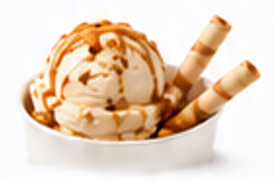
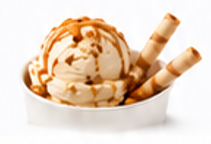
Adiciona seção de promoções

diff --git a/index.html b/index.html
@@ -17,7 +17,7 @@
             <a href="#p1">Home</a>
             <a href="#p2">Sabores</a>
             <a href="#p3">Promoções</a>
-            <a href="#p4">Contato</a>
+            <a href="#p4">Sobre</a>
             <a href="#p5">Galeria</a>
         </nav>
     </header>
@@ -46,37 +46,42 @@
                         <p class="nomesorvete">Chocolate</p>
                         <p class="descricaosorvete">O clássico que nunca</p>
                         <p class="descricaosorvete2">sai de moda</p>
-                        <a class="vermais" href="#">Ver mais</a>
+                        <a class="vermais" href="#p3">Ver mais</a>
                 </div>
                 <div class="tiposorve">
                         <img id="imgchoco" src= "imagens/sorvetemoran.png" alt="sorvetechocolate">
                         <p class="nomesorvete">Morango</p>
                         <p class="descricaosorvete">Feito com morangos</p>
                         <p class="descricaosorvete2">frescos e deliciosos.</p>
-                        <a class="vermais" href="#">Ver mais</a>
+                        <a class="vermais" href="#p3">Ver mais</a>
                 </div>
                 <div class="tiposorve">
                         <img id="imgchoco" src= "imagens/sorvetebauni.png" alt="sorvetechocolate">
                         <p class="nomesorvete">Baunilha</p>
                         <p class="descricaosorvete">Cremoso e suave com</p>
                         <p class="descricaosorvete2">toque especial.</p>
-                        <a class="vermais" href="#">Ver mais</a>
+                        <a class="vermais" href="#p3">Ver mais</a>
                 </div>
                 <div class="tiposorve">
                         <img id="imgchoco" src= "imagens/sorveteoreo.png" alt="sorvetechocolate">
                         <p class="nomesorvete">Cookies &amp; Cream</p>
                         <p class="descricaosorvete">Irresistível combinação</p>
                         <p class="descricaosorvete2">de cookies e creme.</p>
-                        <a class="vermais" href="#">Ver mais</a>
+                        <a class="vermais" href="#p3">Ver mais</a>
                 </div>
             </div>
         </section>
 
         <section id="p3">
-            <h2>Produtos</h2>
-            <p>
-                Lorem ipsum dolor sit amet, consectetur adipisicing elit. Et explicabo id sapiente architecto deleniti assumenda repudiandae dignissimos harum repellendus voluptates at, fuga ut modi recusandae eveniet unde consequuntur blanditiis maxime? Lorem ipsum dolor, sit amet consectetur adipisicing elit. Corporis ut nisi tenetur suscipit nam ipsum, earum dolore dicta quibusdam officiis id debitis repellat quis commodi numquam eius tempore voluptatem explicabo! Animi consectetur eum laborum inventore suscipit provident, voluptates, alias excepturi neque praesentium velit id hic nulla. Iure et temporibus odio veniam laborum quos quisquam autem iste labore, expedita illo! Fugiat! Itaque culpa, necessitatibus qui praesentium labore excepturi ipsum cumque unde possimus optio quaerat numquam libero. Provident, amet aut error quo libero nisi non corporis ex recusandae aspernatur dolorem dignissimos pariatur!
-            </p>
+            <div id="promocoes">────<span id="promocoes2">PROMOÇÕES DA SEMANA</span>────</div>
+            <div id="promocao">  
+                <div id="casquinha">
+                    <p id="emdobro">Casquinha em dobro!</p>
+                    <p id="descricaocasquinha">Na compra de qualquer casquinha,<br>você ganha outra do mesmo sabor.</p>
+                    <a id="aproveite" href="#p4">Aproveite agora</a>
+                </div>
+                <img id="imgpromocao" src="imagens/promocao.png" alt="Promoção">
+            </div>
         </section>
 
         <section id="p4">

diff --git a/src/css/style.css b/src/css/style.css
@@ -78,8 +78,7 @@ header a{
 }
 
 header a:hover{
-    font-size: 35px;
-    transform: scale(1.15);
+    transform: scale(1.55);
 }
 
 a{
@@ -90,14 +89,16 @@ a{
 }
 
 section{
-    scroll-margin-top: 110px;
     background-color: white;
 }
 
+#p1{
+    scroll-margin-top: 100px;
+}
 #sorveteimg{
-    width: 800px;
-    height: 550px;
-    padding: 20px 60px 0px 60px;
+    width: 850px;
+    height: 610px;
+    padding: 33px 60px 0px 60px;
 }
 
 #sabor{
@@ -138,12 +139,18 @@ section{
     padding: 15px 20px;
     border-radius: 10px;
     width: fit-content;
+    transition: all 0.5s ease;
+}
+#saborlink:hover{
+    transition: all 0.5s ease;
+    transform: scale(1.15);
 }
 
 #dia{
     color: rgb(255, 64, 128);
 }
 #p2{
+    scroll-margin-top: 95px;
     display: flex;
     flex-direction: column;
     justify-content: center;
@@ -157,7 +164,7 @@ section{
     padding: 30px 15px;
 }
 #nossos2{
-    letter-spacing: 1.2px;
+    letter-spacing: 0.6px;
     padding: 0px 15px;
 }
 .sabores{
@@ -198,7 +205,6 @@ section{
     font-size: 16px;
     color: #666666;
     line-height: 1.5;
-    margin-bottom: 10px;
     margin-bottom: 20px;
 }
 
@@ -215,4 +221,63 @@ section{
     background-color: #2563EB;
     color: white;
     transition: all 0.5s ease;
+}
+#p3{
+    scroll-margin-top: 95px;
+    display: flex;
+    flex-direction: column;
+    justify-content: center;
+    align-items: center;
+    background-color: #FFF0F6;
+    font-family: 'Poppins', sans-serif;
+}
+#promocoes{
+    color: #FF4080;
+    font-size: 18px;
+    font-weight: 700;
+    padding: 30px 15px;
+}
+#promocoes2{
+    letter-spacing: 0.6px;
+    padding: 0px 15px;
+}
+#promocao{
+    display: flex;
+    flex-direction: row;
+    justify-content: center;
+    background-color: #FEF8F9;
+    box-shadow: 0px 4px 15px rgba(0, 0, 0, 0.1);
+    border-radius: 15px;
+    overflow: hidden;
+    padding: 0px 0px 0px 55px;
+    margin-bottom: 30px;
+}
+#casquinha{
+    display: flex;
+    flex-direction: column;
+    align-items: start;
+    padding: 10px 0px 0px 0px;
+}
+#emdobro{
+    color: #FF4F93;
+    font-weight: 700;
+    font-size: 30px;
+    margin-bottom: 2px;
+}
+#descricaocasquinha{
+    color: #444444;
+    font-size: 16px;
+    line-height: 1.5;
+    margin-bottom: 25px;
+}
+#aproveite{
+    color: #FFFFFF;
+    background-color: #FF4F93;
+    padding: 10px 20px;
+    border-radius: 8px;
+
+}
+#imgpromocao{
+    height: 250px;
+    width: 670px;
 }
